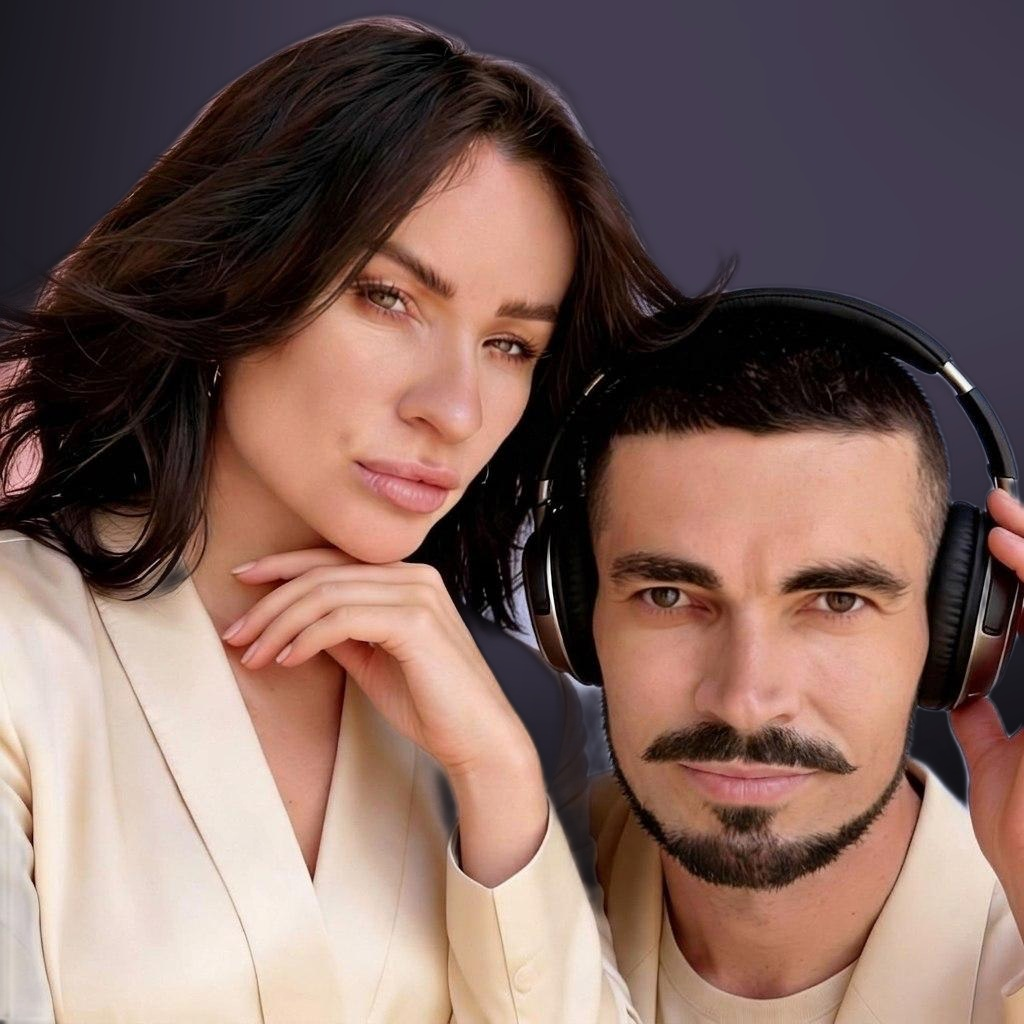
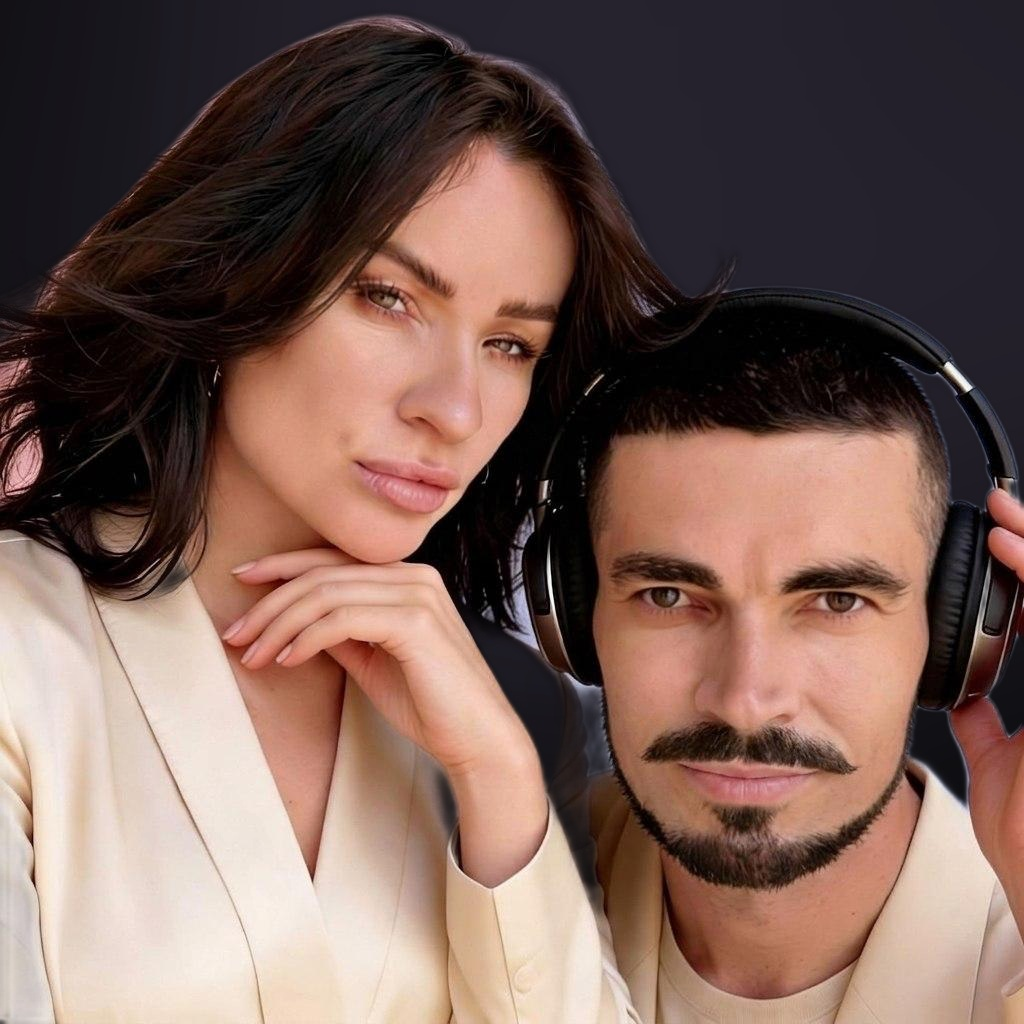
[agent] feat: перешёл на многоуровневую пыльно-фиалковую палитру Glam Dark (по предложению Нейрозавод-хелпера), приглушил свечение, сохранил бренд-CSS в assets/brand/

Changed region(s): [[0.125, 0.0, 1.0, 0.5], [0.4688, 0.625, 0.5312, 0.6875]]

diff --git a/index.html b/index.html
@@ -8,13 +8,16 @@
   :root{
     --bg:#0a0a0c;
     --bg-glow:#1e1a2b;
-    --panel:#151220;
-    --panel-border:#2a2438;
-    --lavender:#cdb7f5;
-    --lavender-dim:#3b3156;
+    --panel:#131318;
+    --panel-border:#282531;
+    --lilac-pale:#e4dcf0;
+    --lavender:#c9bce0;
+    --amethyst:#b39dd8;
+    --violet-deep:#9c86c9;
+    --lavender-dim:#221d2e;
     --text:#e7e4ee;
     --text-dim:#a49dbb;
-    --ink:#15111f;
+    --ink:#14111c;
   }
   *{box-sizing:border-box;margin:0;padding:0}
   body{
@@ -36,9 +39,9 @@
     display:flex;align-items:center;justify-content:space-between;
     padding-top:16px;padding-bottom:16px;
   }
-  .logo{font-weight:700;font-size:1.1rem;letter-spacing:0.5px;color:var(--lavender)}
+  .logo{font-weight:700;font-size:1.1rem;letter-spacing:0.5px;color:var(--amethyst)}
   nav a{margin-left:24px;font-size:0.95rem;opacity:0.8}
-  nav a:hover{opacity:1;color:var(--lavender)}
+  nav a:hover{opacity:1;color:var(--amethyst)}
 
   section{padding:72px 0}
   h1,h2,h3{font-weight:700}
@@ -59,7 +62,7 @@
     display:inline-block;
     background:var(--lavender-dim);
     color:var(--lavender);
-    border:1px solid rgba(205,183,245,0.25);
+    border:1px solid rgba(179,157,216,0.22);
     padding:8px 18px;
     border-radius:999px;
     font-size:0.78rem;font-weight:700;letter-spacing:0.06em;text-transform:uppercase;
@@ -67,30 +70,30 @@
   }
   .hero h1{
     font-size:3rem;line-height:1.05;margin-bottom:14px;
-    color:var(--lavender);
-    text-shadow:0 0 28px rgba(205,183,245,0.45), 0 0 60px rgba(205,183,245,0.18);
+    color:var(--lilac-pale);
+    text-shadow:0 0 20px rgba(179,157,216,0.28), 0 0 48px rgba(179,157,216,0.12);
     letter-spacing:0.01em;
   }
   .hero p.subtitle{font-size:1.05rem;color:var(--text-dim);font-weight:600;margin-bottom:18px}
   .hero p.desc{max-width:480px;font-size:1.08rem;color:var(--text);margin-bottom:32px}
   .btn{
     display:inline-block;
-    background:var(--lavender);
+    background:var(--amethyst);
     color:var(--ink);
     padding:14px 32px;
     border-radius:32px;
     font-weight:700;
     font-size:1rem;
-    box-shadow:0 0 0 rgba(205,183,245,0);
+    box-shadow:0 0 0 rgba(179,157,216,0);
     transition:transform 0.15s ease, box-shadow 0.15s ease;
   }
-  .btn:hover{transform:translateY(-2px);box-shadow:0 0 32px rgba(205,183,245,0.55)}
+  .btn:hover{transform:translateY(-2px);box-shadow:0 0 26px rgba(179,157,216,0.35)}
 
   .hero-photo{
     border-radius:28px;
     overflow:hidden;
-    border:1px solid rgba(205,183,245,0.35);
-    box-shadow:0 0 0 1px rgba(205,183,245,0.08), 0 20px 60px rgba(0,0,0,0.5), 0 0 40px rgba(205,183,245,0.12);
+    border:1px solid rgba(179,157,216,0.3);
+    box-shadow:0 0 0 1px rgba(179,157,216,0.07), 0 20px 60px rgba(0,0,0,0.5), 0 0 34px rgba(179,157,216,0.1);
   }
   .hero-photo img{display:block;width:100%;height:auto}
 
@@ -112,13 +115,13 @@
   }
   .team-avatar{
     width:88px;height:88px;border-radius:50%;
-    background:var(--lavender-dim);border:1px solid rgba(205,183,245,0.3);
+    background:var(--lavender-dim);border:1px solid rgba(179,157,216,0.3);
     margin:0 auto 16px;
     display:flex;align-items:center;justify-content:center;
     color:var(--lavender);font-weight:700;font-size:1.4rem;
   }
   .team-card h3{margin-bottom:6px}
-  .team-role{color:var(--lavender);font-weight:600;font-size:0.95rem;margin-bottom:10px}
+  .team-role{color:var(--amethyst);font-weight:600;font-size:0.95rem;margin-bottom:10px}
   .team-card p.desc{font-size:0.95rem;color:var(--text-dim)}
 
   /* SERVICES */
@@ -133,7 +136,7 @@
     padding:28px 24px;
   }
   .service-card h3{font-size:1.1rem;margin-bottom:8px}
-  .service-card .price{color:var(--lavender);font-weight:700;font-size:1rem;margin-bottom:10px}
+  .service-card .price{color:var(--violet-deep);font-weight:700;font-size:1rem;margin-bottom:10px}
   .service-card p{font-size:0.92rem;color:var(--text-dim)}
   .service-card p.pain{color:var(--text);opacity:0.95;font-size:0.9rem;font-style:italic;margin-top:8px}
   .combo-note{
@@ -147,7 +150,7 @@
   .portfolio-placeholder{
     max-width:560px;margin:0 auto;text-align:center;
     background:var(--bg);border-radius:16px;padding:48px 32px;
-    border:2px dashed rgba(205,183,245,0.4);
+    border:2px dashed rgba(179,157,216,0.35);
   }
   .portfolio-placeholder h3{margin-bottom:10px}
   .portfolio-placeholder p{color:var(--text-dim)}
@@ -158,7 +161,7 @@
   }
   .badge{
     background:var(--panel);
-    border:1px solid rgba(205,183,245,0.3);
+    border:1px solid rgba(179,157,216,0.28);
     color:var(--text);
     padding:10px 20px;
     border-radius:24px;
@@ -171,12 +174,12 @@
     color:var(--text);
     text-align:center;
   }
-  .contacts h2{color:var(--lavender)}
+  .contacts h2{color:var(--lilac-pale)}
   .contacts p{color:var(--text-dim);max-width:520px;margin:0 auto 32px}
   .contact-buttons{display:flex;flex-wrap:wrap;gap:16px;justify-content:center;margin-bottom:28px}
-  .contact-buttons a.btn{background:var(--lavender);color:var(--ink)}
-  .contact-buttons a.btn.secondary{background:transparent;border:2px solid var(--lavender);color:var(--lavender)}
-  .contact-buttons a.btn.secondary:hover{background:var(--lavender);color:var(--ink)}
+  .contact-buttons a.btn{background:var(--amethyst);color:var(--ink)}
+  .contact-buttons a.btn.secondary{background:transparent;border:2px solid var(--amethyst);color:var(--lavender)}
+  .contact-buttons a.btn.secondary:hover{background:var(--amethyst);color:var(--ink)}
 
   footer{
     background:var(--bg);

diff --git a/assets/brand/kiselevy-creo-palette.css b/assets/brand/kiselevy-creo-palette.css
@@ -1,0 +1,26 @@
+/* KISELEVY CREO — фирменная палитра "Glam Dark"
+   Чёрная база + пыльно-фиалковый с мягким свечением. Без неона/футуризма.
+   Зафиксировано: 2026-08-31. Использовать во всех продуктах бренда (сайт, боты). */
+
+:root{
+  /* база — чёрный */
+  --kc-bg:            #0A0A0C; /* глубокий чёрный, холодный подтон */
+  --kc-panel:         #131318; /* графит — карточки, плашки поверх чёрного */
+
+  /* пыльно-фиалковые — текст и акценты */
+  --kc-lilac-pale:    #E4DCF0; /* бледно-сиреневый — крупные заголовки */
+  --kc-lilac:         #C9BCE0; /* пыльно-фиалковый — основной текст/акценты */
+  --kc-amethyst:      #B39DD8; /* дымчатый аметист — кнопки, линии, свечение */
+  --kc-violet-deep:   #9C86C9; /* глубже — мелкие акценты, иконки */
+
+  /* текст на светлых заливках (кнопки) */
+  --kc-ink:           #14111c;
+}
+
+/* Свечение — низкая интенсивность, широкое мягкое размытие. НЕ резкий неоновый контур. */
+.kc-glow-text{
+  text-shadow: 0 0 20px rgba(179,157,216,0.28), 0 0 46px rgba(179,157,216,0.12);
+}
+.kc-glow-btn:hover{
+  box-shadow: 0 0 26px rgba(179,157,216,0.35);
+}
